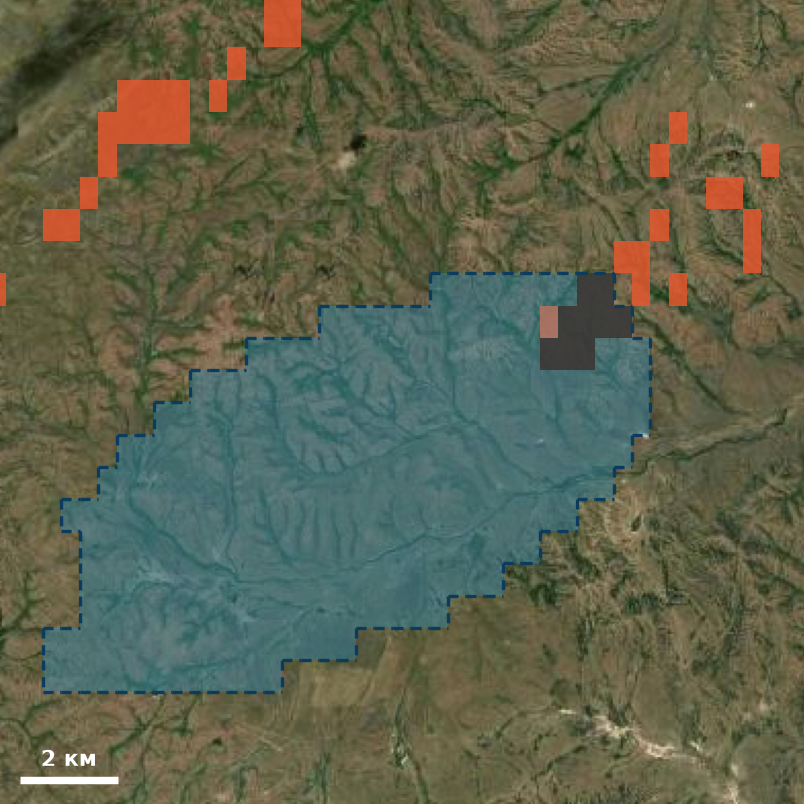
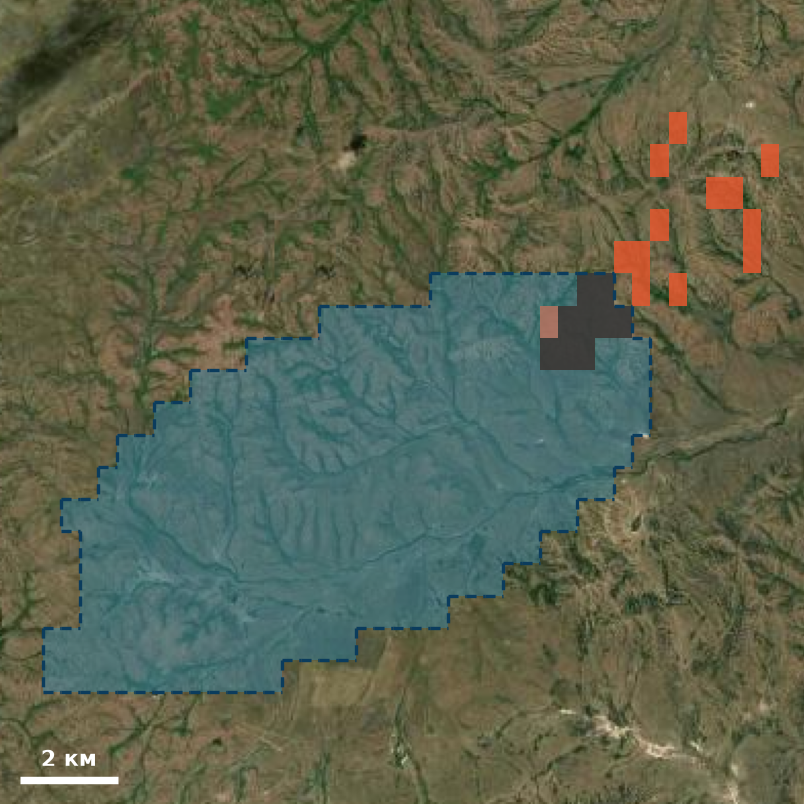
Fire 2026-09-07: S2 fact limited to our fire (neighbouring fire removed)
Claude-Session: https://claude.ai/code/session_01DdNrDyVJZY7CuEynqjVWna

diff --git a/presentation/tools/plot_fire_0907_truth.py b/presentation/tools/plot_fire_0907_truth.py
@@ -48,6 +48,9 @@ for r in range(n):
         if okk.any() and burn[iy_[okk], ix_[okk]].mean() >= 0.3:
             s2c[r, c] = True
 fact = s2c & ~burned
+# только наш пожар: пятна гари, которые (с допуском 3 клетки ~ 1,5 км) связаны с гарью на старте; соседний пожар на западе - убираем
+grp, _ = ndimage.label(ndimage.binary_dilation(fact | burned, iterations=3), structure=np.ones((3, 3)))
+fact = fact & np.isin(grp, np.unique(grp[burned]))
 f1 = g["f1"]; km2 = g["km2"]
 print("S2 fact km2", km2(fact), "F1 hybrid", f1(hyb[3], fact), "U-Net", f1(g["unet"][3], fact), "fires.kz", f1(g["kz_new"], fact),
       "VIIRS", f1(g["Y"][3], fact))
